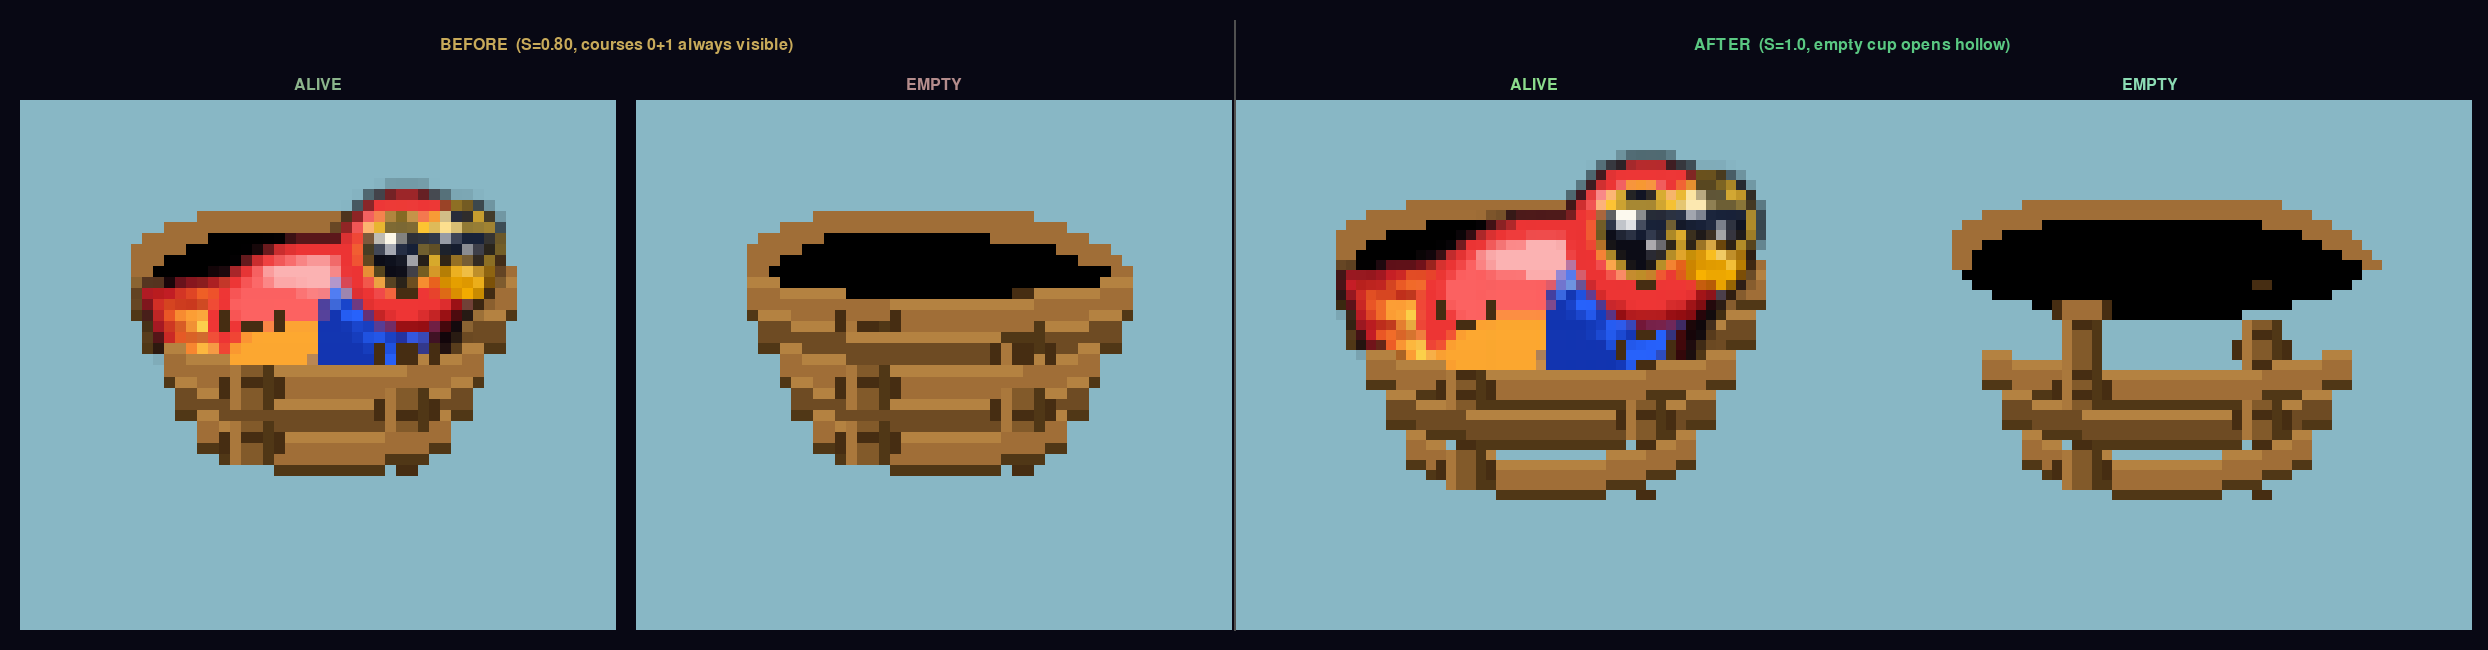
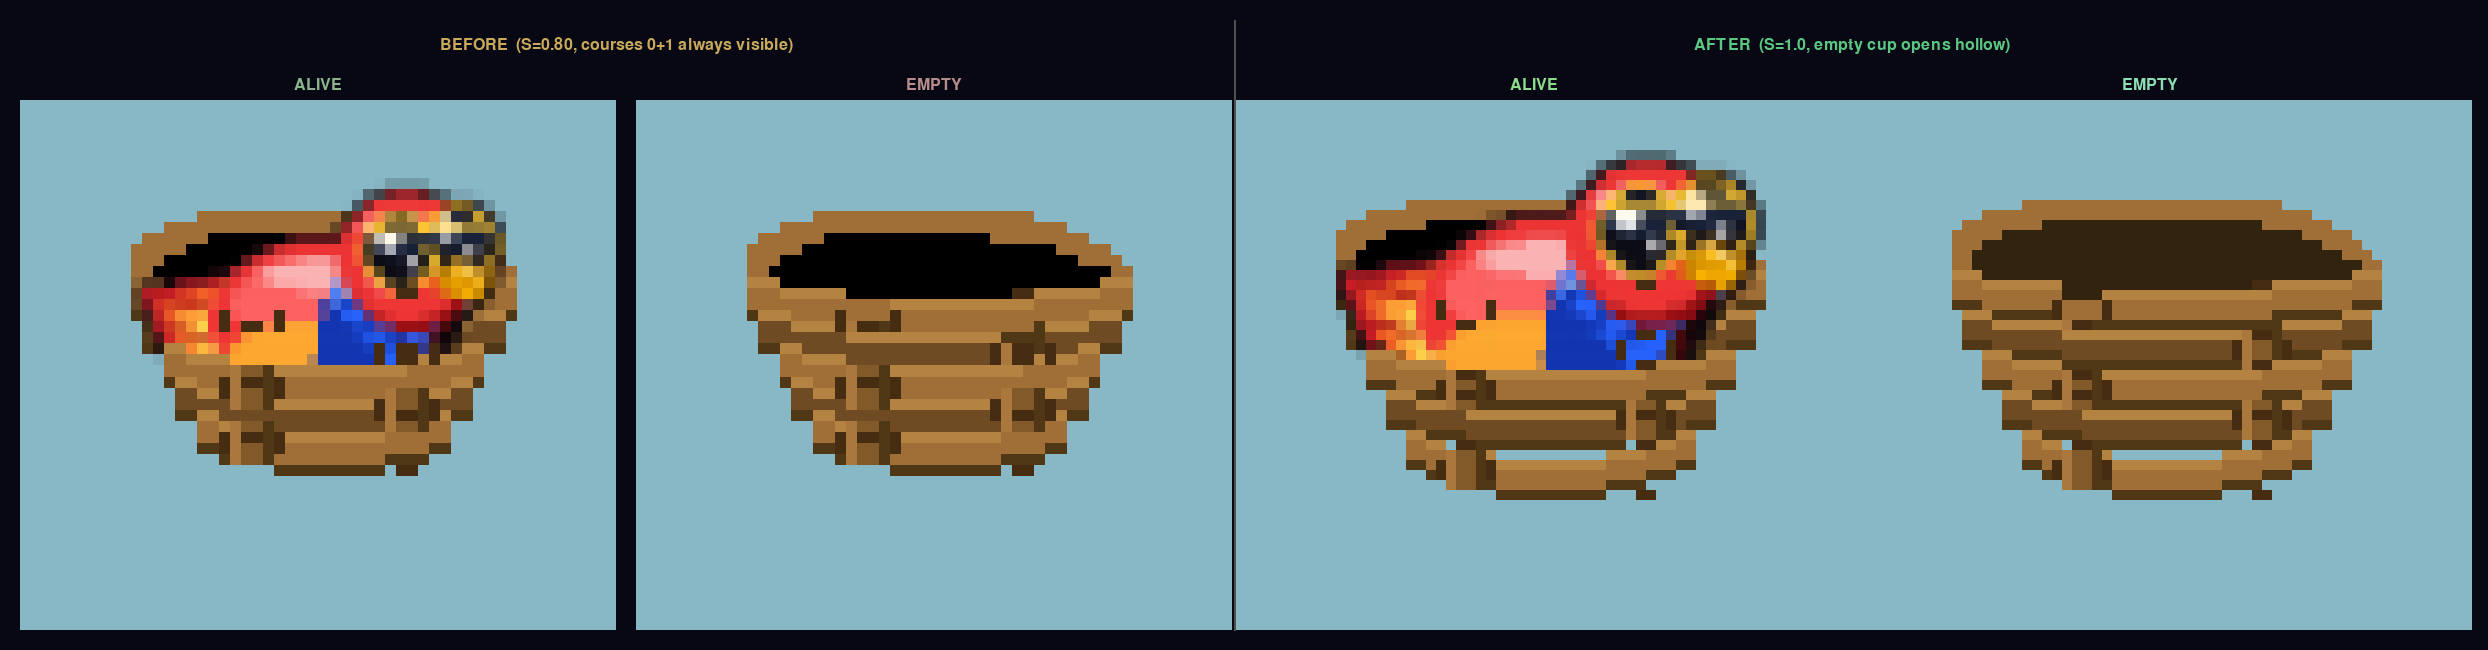
Fix empty-nest cup: warm void interior instead of black hole
Restore courses 0+1 for structural integrity; fill remaining black void
pixels with _NEST_HOLLOW_COL so the cup interior reads as a shadowed warm
bowl rather than a pitch-black void.

Claude-Session: https://claude.ai/code/session_01SYxW5bMXxMEcZRx1arfvCN

Changed region(s): [[0.7737, 0.3385, 0.9594, 0.5846]]

diff --git a/game/hud.py b/game/hud.py
@@ -215,9 +215,17 @@ def _nest_draw_slot(surf, cy, alive):
             surf.set_at((_vxL + _dx, _y), _NEST_TWIG_BRIGHT)
     for vx in verts:
         _nest_stick_span(surf, vx, cy + ry_off + rh, cy + stick_bottom)
+    _nest_weave(surf, cy, (0, 1), courses, stick_wins)
     if alive:
-        _nest_weave(surf, cy, (0, 1), courses, stick_wins)
         surf.blit(_nest_bird, (cx - _nest_bird_w // 2, cy - _nest_bird_h // 2 + 5))
+    else:
+        # Warm the void interior — any black pixel left inside the rim becomes
+        # a dark shadowed bowl colour so the cup reads as a hollow with depth.
+        rx_, ry_off_, rw_, rh_ = rim_rect
+        for _y in range(cy + ry_off_, cy + ry_off_ + rh_ + 1):
+            for _x in range(rx_, rx_ + rw_ + 1):
+                if surf.get_at((_x, _y))[:3] == (0, 0, 0):
+                    surf.set_at((_x, _y), _NEST_HOLLOW_COL)
     _nest_weave(surf, cy, (2, 3, 4), courses, stick_wins)
     for ci in (2, 3, 4):
         offset, col, x1, x2, sag = courses[ci]
